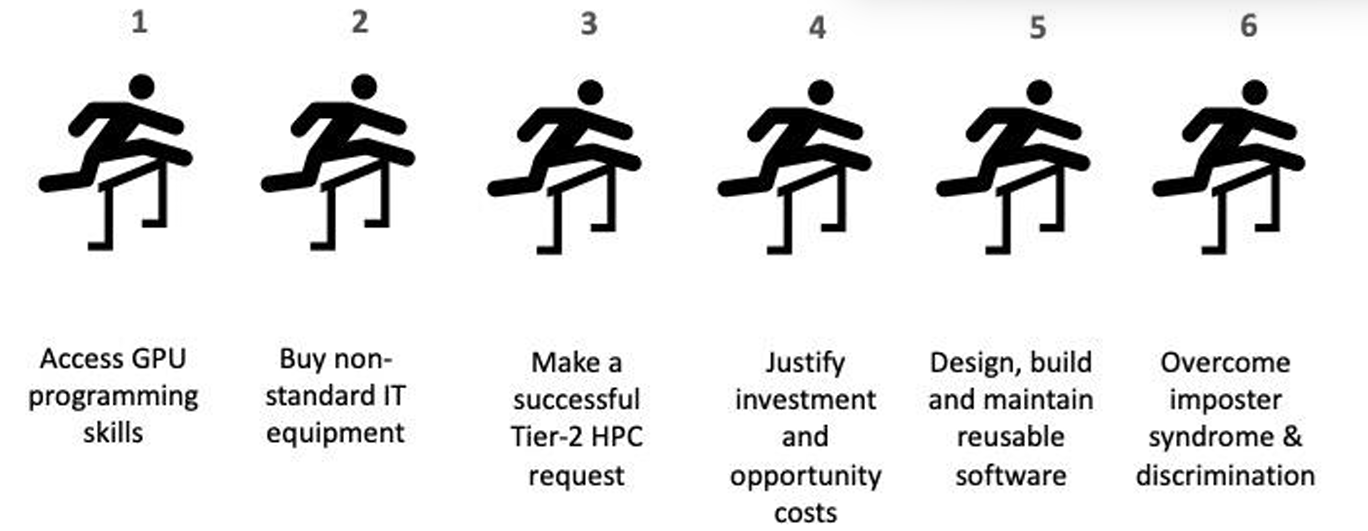
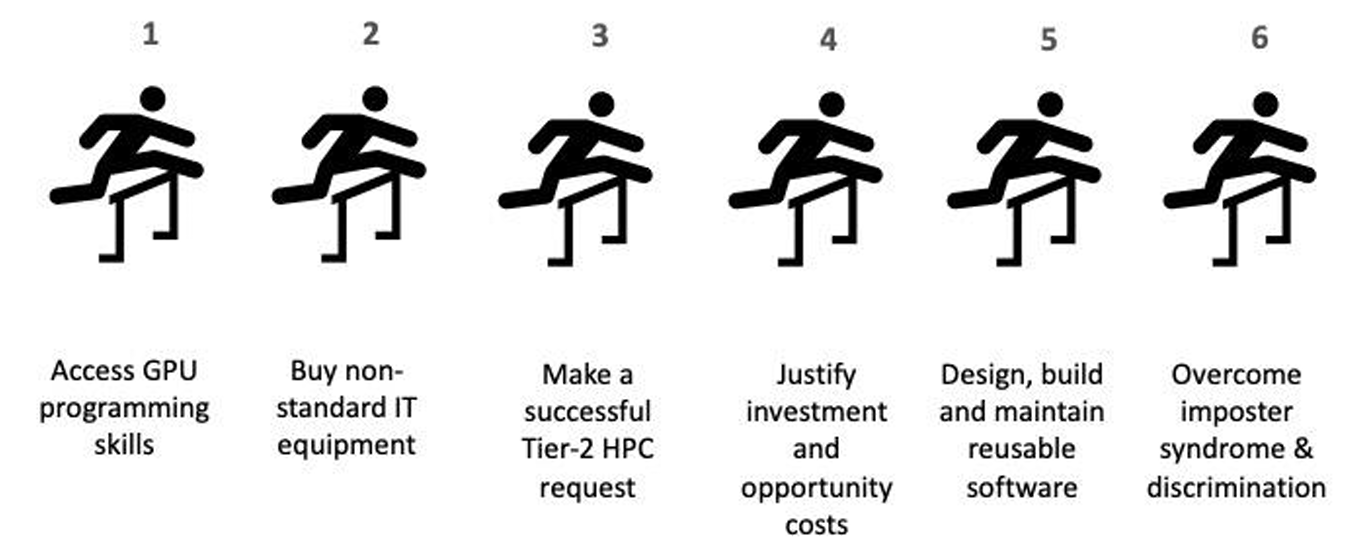
Finally final final2

diff --git a/ssc-2026/hpc.md b/ssc-2026/hpc.md
@@ -131,10 +131,11 @@ We also found that there are many hurdles faced by the social simulation communi
 
 ---
 
-# Potential of HPC with ABMs
-
 <!-- .slide: class="right-image-slide" -->
 
+# Potential of HPC with ABMs
+
+<div class="split">
 
 Imagine the next Covid crisis... Trade crisis... Food security crisis... Transport infrastructure crisis... Energy crisis...
 
